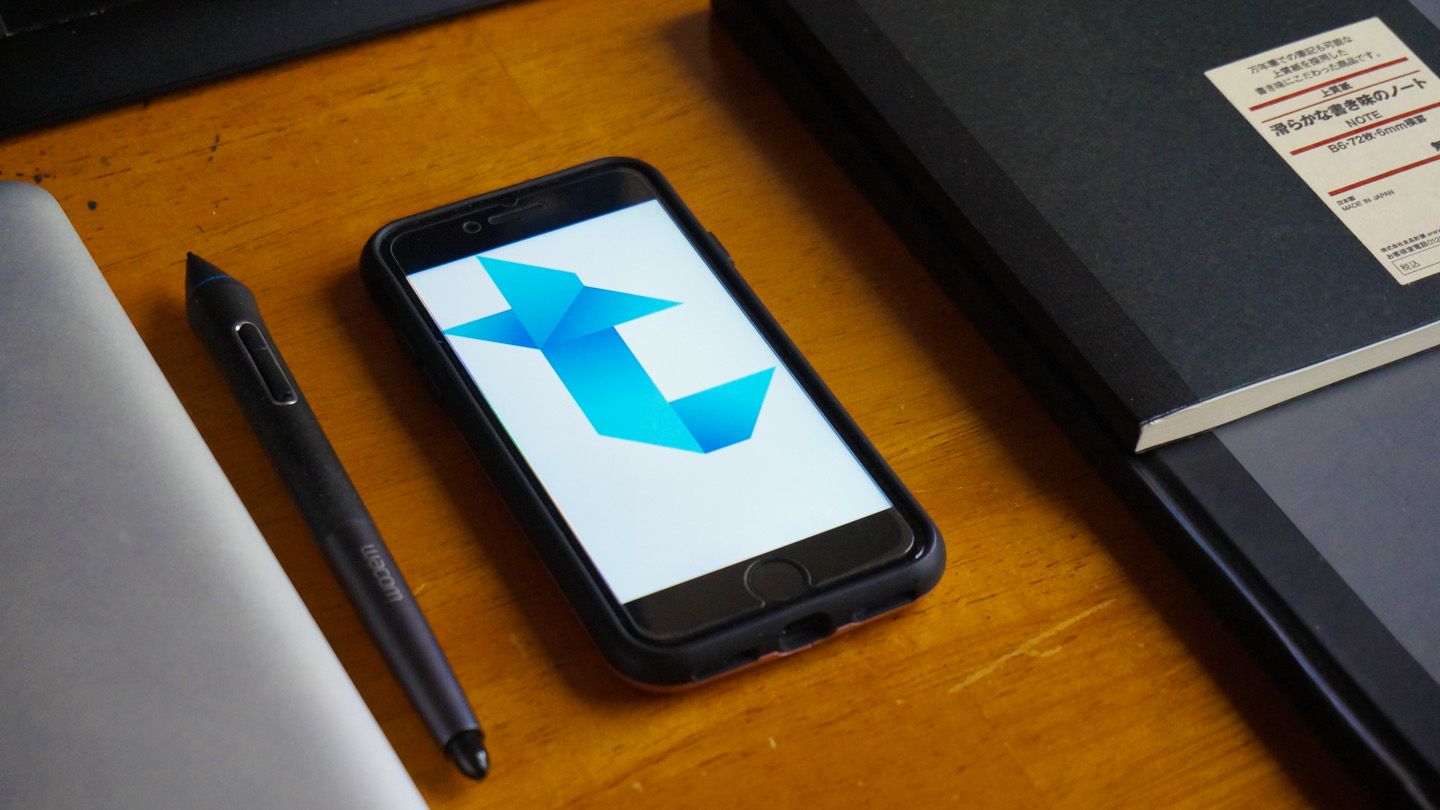
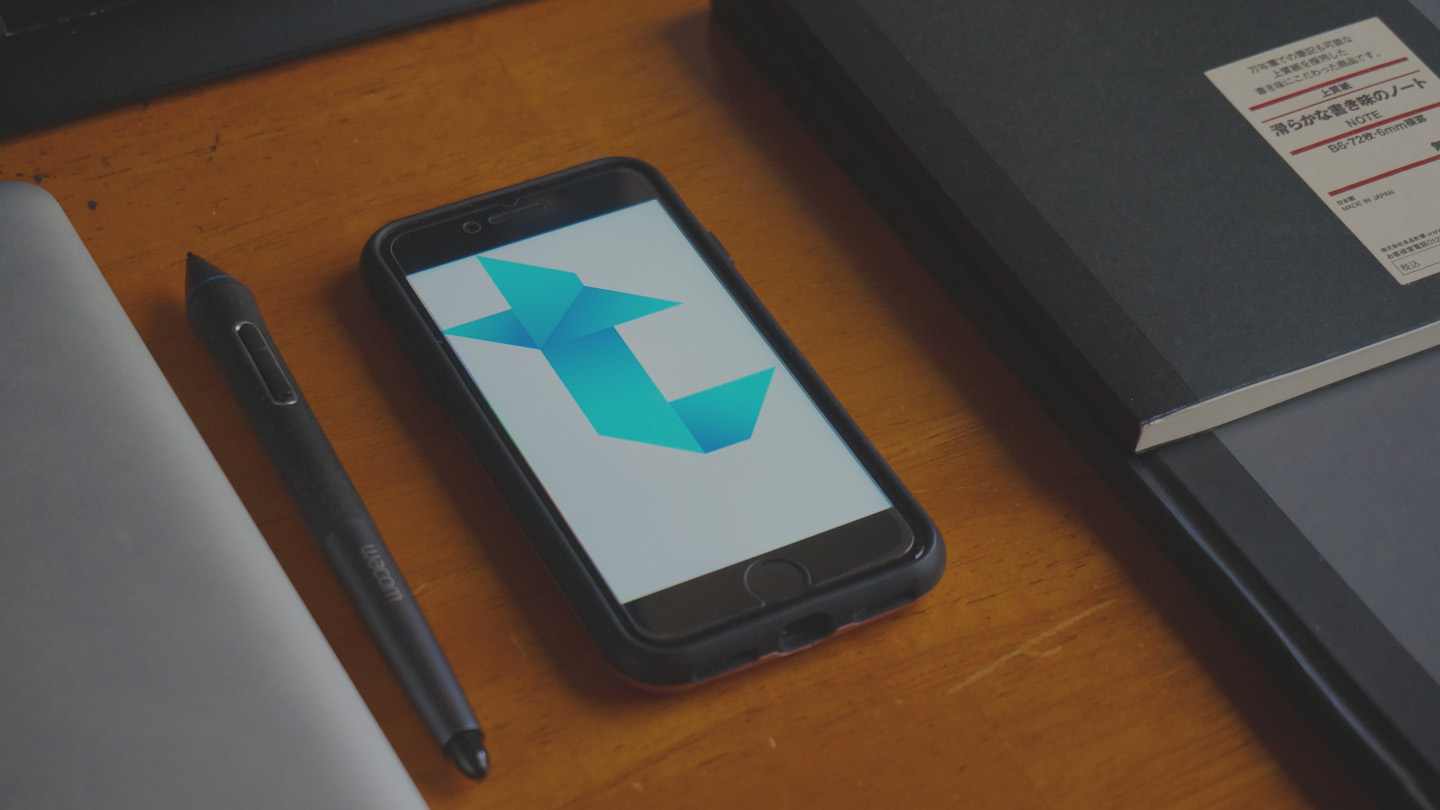
updated portfolio page

diff --git a/css/style.css b/css/style.css
@@ -362,7 +362,7 @@ a.smallportlinks {
 
 
 #first-section.portfolio {
-  background: url("/images/backgrounds/portfolio.jpg") no-repeat center top;
+  background: url("/images/backgrounds/portfolio2.jpg") no-repeat center top;
   position: fixed;
 background-size:cover;
   margin: auto;
@@ -913,7 +913,7 @@ a.grupo {
 }
     
     #first-section.portfolio {
-  background: url("/images/backgrounds/portfoliomobile.jpg") no-repeat center top;
+  background: url("/images/backgrounds/portfoliomobile2.jpg") no-repeat center top;
   position: fixed;
   margin: auto;
   height: 100%;

diff --git a/portfolio.html b/portfolio.html
@@ -27,9 +27,9 @@
     
     
     
-      <img src="/images/backgrounds/portfolio.jpg" style="display:none;">
+      <img src="/images/backgrounds/portfolio2.jpg" style="display:none;">
     
-    <img src="/images/backgrounds/portfoliomobile.jpg" style="display:none;">
+    <img src="/images/backgrounds/portfoliomobile2.jpg" style="display:none;">
     
 </head>
 
